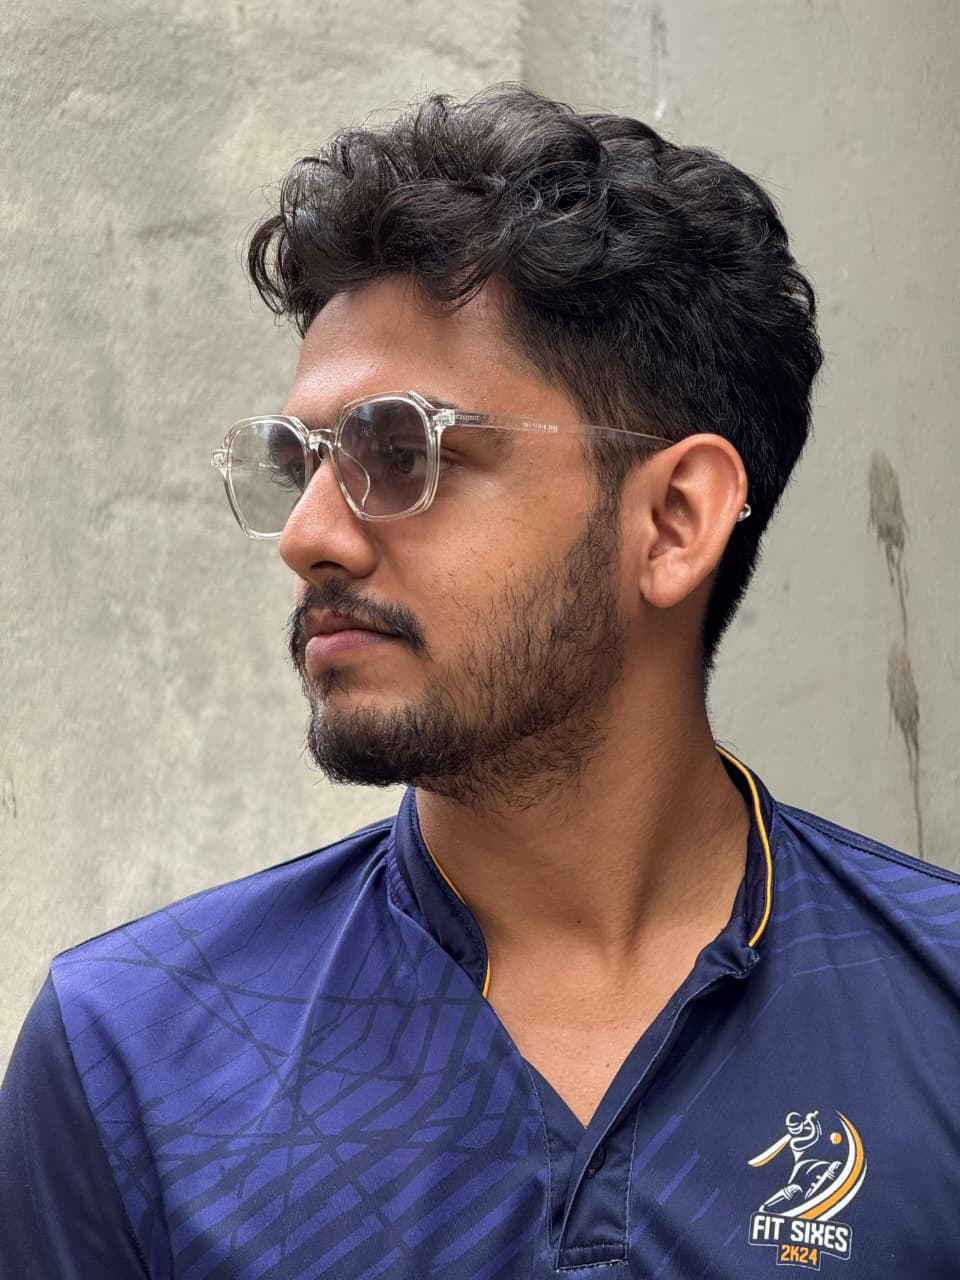
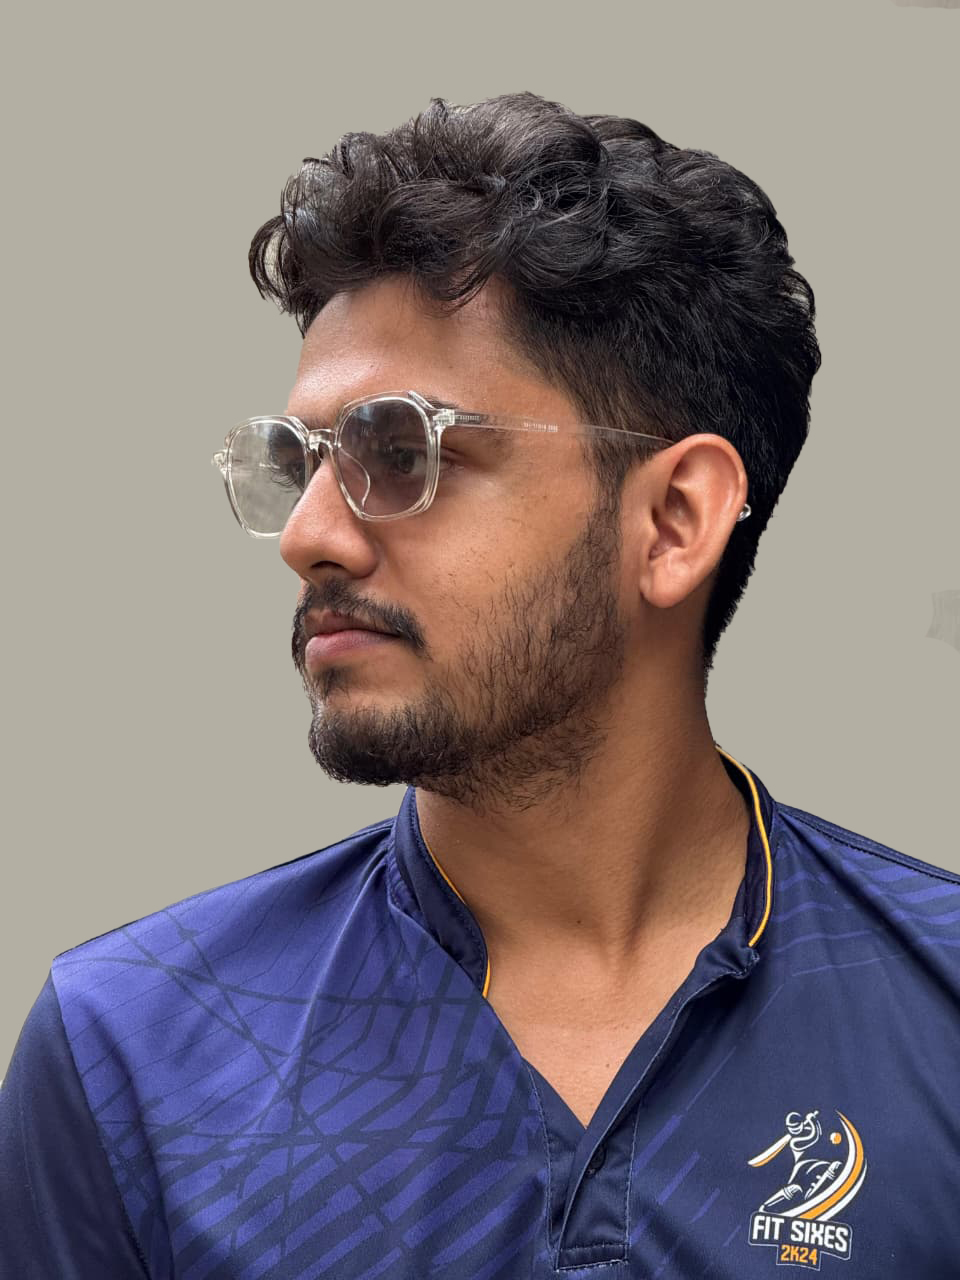
change profile pics

diff --git a/src/components/AboutSection.jsx b/src/components/AboutSection.jsx
@@ -160,7 +160,7 @@ export default function AboutSection() {
                     position: 'relative',
                 }}>
                     <Image
-                        src="/profile.jpg"
+                        src="/profile_02.jpg"
                         alt="Manusha Nuwan"
                         fill
                         style={{ objectFit: 'cover' }}
